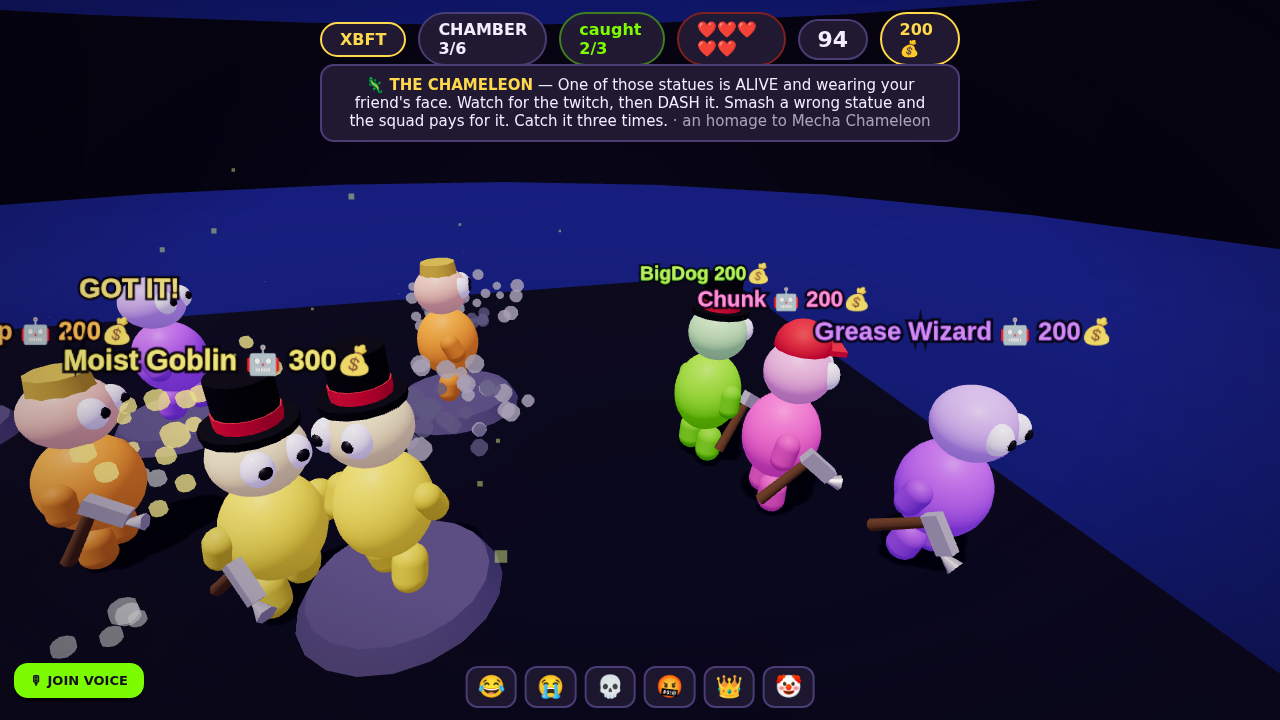
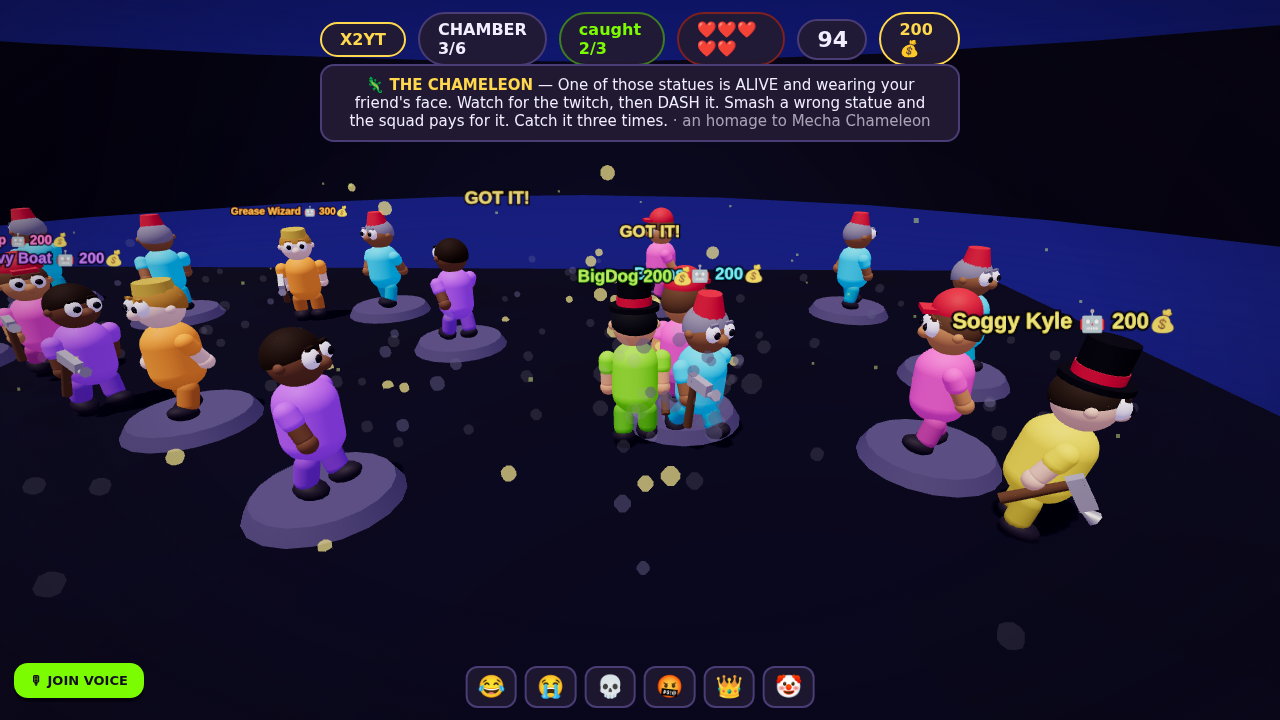
Characters are actual little humans now
Skin-tone heads (6-tone palette per player) with nose, ears, brows,
hair, and eyes; shirt torso with a belly, sleeves ending in hands,
pants ending in shoes; boss is a pale red-eyed dealer. Blocky OSRS
de-make variant untouched. Doc screenshots refreshed.

Claude-Session: https://claude.ai/code/session_014a4Rg1hvhLxLbg1EbcNxR6

diff --git a/client/js/render.js b/client/js/render.js
@@ -56,20 +56,27 @@ function liftFor(id) {
 // ---- shared geometry / materials --------------------------------------------
 
 const GEO = {
-  // chunky toy proportions (Gamble With Friends / R.V. There Yet energy):
-  // fat egg body, big head, stubby little limbs, all smooth-shaded
-  torso: new THREE.SphereGeometry(23, 26, 20).scale(1, 1.18, 0.96),
-  leg: new THREE.CapsuleGeometry(8.5, 8, 6, 14),
-  arm: new THREE.CapsuleGeometry(7, 9, 6, 14),
-  head: new THREE.SphereGeometry(19.5, 26, 20).scale(1, 0.94, 1),
+  // chunky little HUMANS (R.V. There Yet clay-person energy): big head with a
+  // real face, shirt torso, sleeves ending in hands, pants ending in shoes
+  torso: new THREE.CapsuleGeometry(17, 22, 8, 18),
+  sleeve: new THREE.CapsuleGeometry(6.8, 6, 6, 12),
+  forearm: new THREE.CapsuleGeometry(5.6, 9, 6, 12),
+  hand: new THREE.SphereGeometry(6.2, 12, 10),
+  thigh: new THREE.CapsuleGeometry(7.5, 12, 6, 12),
+  shoe: new THREE.SphereGeometry(8.5, 12, 10).scale(1.35, 0.75, 1.05),
+  head: new THREE.SphereGeometry(16.5, 26, 20),
+  nose: new THREE.SphereGeometry(4.6, 12, 10).scale(1.25, 1, 1),
+  ear: new THREE.SphereGeometry(3.6, 10, 8),
+  brow: new THREE.BoxGeometry(2.4, 2.2, 6.5),
+  hair: new THREE.SphereGeometry(17.3, 22, 12, 0, Math.PI * 2, 0, Math.PI * 0.52),
   // the 2004 de-make set
   torsoB: new THREE.BoxGeometry(26, 46, 36),
   legB: new THREE.BoxGeometry(12, 27, 14),
   armB: new THREE.BoxGeometry(10, 27, 12),
   headB: new THREE.BoxGeometry(26, 24, 28),
   eyeB: new THREE.BoxGeometry(3, 6, 6),
-  eyeH: new THREE.SphereGeometry(6.5, 14, 12).scale(1, 1.25, 1),
-  pupilH: new THREE.SphereGeometry(3.2, 10, 8),
+  eyeH: new THREE.SphereGeometry(5.4, 14, 12).scale(1, 1.2, 1),
+  pupilH: new THREE.SphereGeometry(2.8, 10, 8),
   aura: new THREE.SphereGeometry(C.PLAYER_RADIUS + 12, 16, 12),
   link: new THREE.SphereGeometry(7, 8, 6),
   particle: new THREE.SphereGeometry(5, 6, 5),
@@ -94,17 +101,32 @@ function particleMat(color) {
 
 // ---- humanoid slop-people ------------------------------------------------------
 
+// Real skin tones + hair colors, keyed per player so the squad looks like a
+// crew of little dudes instead of a bag of gumballs.
+const SKINS = ['#f2c9a0', '#e8ab72', '#c98e55', '#9a6b42', '#f6d7b8', '#7a5236'];
+const HAIRS = ['#3a2a1e', '#191922', '#6b4a2e', '#8a8a92', '#b8862e', '#2e1c14'];
+const SHOE_MAT = new THREE.MeshStandardMaterial({ color: 0x2a2233, roughness: 0.6 });
+
 const charMatCache = new Map();
-function charMats(color, blocky = false) {
-  const key = color + (blocky ? '#B' : '');
+function charMats(color, skinIndex = 0, blocky = false) {
+  const key = `${color}#${skinIndex}${blocky ? 'B' : ''}`;
   if (!charMatCache.has(key)) {
     const base = new THREE.Color(color);
-    const opts = blocky ? { flatShading: true, roughness: 1 } : {};
-    charMatCache.set(key, {
-      suit: new THREE.MeshStandardMaterial({ color: base, roughness: 0.5, ...opts }),
-      skin: new THREE.MeshStandardMaterial({ color: base.clone().lerp(new THREE.Color('#ffffff'), 0.35), roughness: 0.45, ...opts }),
-      limb: new THREE.MeshStandardMaterial({ color: base.clone().lerp(new THREE.Color('#000000'), 0.25), roughness: 0.55, ...opts }),
-    });
+    if (blocky) {
+      const opts = { flatShading: true, roughness: 1 };
+      charMatCache.set(key, {
+        suit: new THREE.MeshStandardMaterial({ color: base, roughness: 0.5, ...opts }),
+        skin: new THREE.MeshStandardMaterial({ color: base.clone().lerp(new THREE.Color('#ffffff'), 0.35), roughness: 0.45, ...opts }),
+        limb: new THREE.MeshStandardMaterial({ color: base.clone().lerp(new THREE.Color('#000000'), 0.25), roughness: 0.55, ...opts }),
+      });
+    } else {
+      charMatCache.set(key, {
+        shirt: new THREE.MeshStandardMaterial({ color: base, roughness: 0.6 }),
+        pants: new THREE.MeshStandardMaterial({ color: base.clone().lerp(new THREE.Color('#14101f'), 0.45), roughness: 0.65 }),
+        skin: new THREE.MeshStandardMaterial({ color: SKINS[skinIndex % SKINS.length], roughness: 0.55 }),
+        hair: new THREE.MeshStandardMaterial({ color: HAIRS[skinIndex % HAIRS.length], roughness: 0.75 }),
+      });
+    }
   }
   return charMatCache.get(key);
 }
@@ -174,60 +196,117 @@ function makeHat(i) {
   return hat;
 }
 
-// Root sits at ground level; feet reach y≈3. Local +x is forward.
+// Root sits at ground level; feet reach y≈0. Local +x is forward.
 // blocky=true builds the 2004 de-make: box limbs, flat shading, dead eyes.
-function buildCharacter(color, { hatIndex = 0, eyeColor = null, scale = 1, blocky = false } = {}) {
-  const m = charMats(color, blocky);
+function buildCharacter(color, { hatIndex = 0, eyeColor = null, scale = 1, blocky = false, skinIndex = 0 } = {}) {
+  const m = charMats(color, skinIndex, blocky);
   const root = new THREE.Group();
 
+  if (blocky) {
+    const legL = new THREE.Group();
+    const legR = new THREE.Group();
+    for (const [pivot, side] of [[legL, -1], [legR, 1]]) {
+      pivot.position.set(0, 28, side * 9);
+      const leg = new THREE.Mesh(GEO.legB, m.limb);
+      leg.position.y = -14;
+      leg.castShadow = true;
+      pivot.add(leg);
+      root.add(pivot);
+    }
+    const torso = new THREE.Mesh(GEO.torsoB, m.suit);
+    torso.position.y = 51;
+    torso.castShadow = true;
+    root.add(torso);
+    const armL = new THREE.Group();
+    const armR = new THREE.Group();
+    for (const [pivot, side] of [[armL, -1], [armR, 1]]) {
+      pivot.position.set(0, 64, side * 24);
+      const arm = new THREE.Mesh(GEO.armB, m.limb);
+      arm.position.y = -13;
+      arm.castShadow = true;
+      pivot.add(arm);
+      root.add(pivot);
+    }
+    const head = new THREE.Mesh(GEO.headB, m.skin);
+    head.position.y = 89;
+    head.castShadow = true;
+    for (const side of [-1, 1]) {
+      const eye = new THREE.Mesh(GEO.eyeB, eyeColor ? new THREE.MeshBasicMaterial({ color: eyeColor }) : MAT.pupil);
+      eye.position.set(13.5, 2, side * 7);
+      head.add(eye);
+    }
+    const hat = makeHat(hatIndex);
+    hat.position.y = 12;
+    head.add(hat);
+    root.add(head);
+    root.scale.setScalar(scale);
+    return { root, legL, legR, armL, armR, torso, head };
+  }
+
+  // ---- the little human ----
   const legL = new THREE.Group();
   const legR = new THREE.Group();
   for (const [pivot, side] of [[legL, -1], [legR, 1]]) {
-    pivot.position.set(0, blocky ? 28 : 22, side * (blocky ? 9 : 10));
-    const leg = new THREE.Mesh(blocky ? GEO.legB : GEO.leg, m.limb);
-    leg.position.y = blocky ? -14 : -11;
-    leg.castShadow = true;
-    pivot.add(leg);
+    pivot.position.set(0, 30, side * 9.5);
+    const thigh = new THREE.Mesh(GEO.thigh, m.pants);
+    thigh.position.y = -13;
+    thigh.castShadow = true;
+    const shoe = new THREE.Mesh(GEO.shoe, SHOE_MAT);
+    shoe.position.set(3.5, -26, 0);
+    shoe.castShadow = true;
+    pivot.add(thigh, shoe);
     root.add(pivot);
   }
 
-  const torso = new THREE.Mesh(blocky ? GEO.torsoB : GEO.torso, m.suit);
-  torso.position.y = blocky ? 51 : 46;
+  const torso = new THREE.Mesh(GEO.torso, m.shirt);
+  torso.position.y = 50;
+  torso.scale.set(1.14, 1, 1.06); // a respectable belly
   torso.castShadow = true;
   root.add(torso);
 
   const armL = new THREE.Group();
   const armR = new THREE.Group();
   for (const [pivot, side] of [[armL, -1], [armR, 1]]) {
-    pivot.position.set(0, blocky ? 64 : 58, side * (blocky ? 24 : 22));
-    const arm = new THREE.Mesh(blocky ? GEO.armB : GEO.arm, m.limb);
-    arm.position.y = blocky ? -13 : -11;
-    arm.castShadow = true;
-    pivot.add(arm);
+    pivot.position.set(0, 66, side * 20.5);
+    const sleeve = new THREE.Mesh(GEO.sleeve, m.shirt);
+    sleeve.position.y = -5;
+    sleeve.castShadow = true;
+    const forearm = new THREE.Mesh(GEO.forearm, m.skin);
+    forearm.position.y = -15;
+    forearm.castShadow = true;
+    const hand = new THREE.Mesh(GEO.hand, m.skin);
+    hand.position.y = -24;
+    hand.castShadow = true;
+    pivot.add(sleeve, forearm, hand);
     root.add(pivot);
   }
 
-  const head = new THREE.Mesh(blocky ? GEO.headB : GEO.head, m.skin);
-  head.position.y = blocky ? 89 : 88;
+  const head = new THREE.Mesh(GEO.head, m.skin);
+  head.position.y = 90;
   head.castShadow = true;
-  if (blocky) {
-    for (const side of [-1, 1]) {
-      const eye = new THREE.Mesh(GEO.eyeB, eyeColor ? new THREE.MeshBasicMaterial({ color: eyeColor }) : MAT.pupil);
-      eye.position.set(13.5, 2, side * 7);
-      head.add(eye);
-    }
-  } else {
-    for (const side of [-1, 1]) {
-      const eye = new THREE.Mesh(GEO.eyeH, MAT.eyeWhite);
-      eye.position.set(15, 2.5, side * 8);
-      const pupil = new THREE.Mesh(GEO.pupilH, eyeColor ? new THREE.MeshBasicMaterial({ color: eyeColor }) : MAT.pupil);
-      pupil.position.set(4.6, 0.4, 0);
-      eye.add(pupil);
-      head.add(eye);
-    }
+  for (const side of [-1, 1]) {
+    const eye = new THREE.Mesh(GEO.eyeH, MAT.eyeWhite);
+    eye.position.set(13.8, 3.5, side * 6.8);
+    const pupil = new THREE.Mesh(GEO.pupilH, eyeColor ? new THREE.MeshBasicMaterial({ color: eyeColor }) : MAT.pupil);
+    pupil.position.set(4, 0.3, 0);
+    eye.add(pupil);
+    head.add(eye);
+    const brow = new THREE.Mesh(GEO.brow, m.hair);
+    brow.position.set(14.6, 10, side * 6.8);
+    head.add(brow);
+    const ear = new THREE.Mesh(GEO.ear, m.skin);
+    ear.position.set(0, 0.5, side * 16);
+    head.add(ear);
   }
+  const nose = new THREE.Mesh(GEO.nose, m.skin);
+  nose.position.set(16.2, -1.5, 0);
+  head.add(nose);
+  const hair = new THREE.Mesh(GEO.hair, m.hair);
+  hair.position.set(-1.5, 2.5, 0);
+  hair.rotation.z = 0.3; // tip the mop back so the face stays clear
+  head.add(hair);
   const hat = makeHat(hatIndex);
-  hat.position.y = blocky ? 12 : 15;
+  hat.position.y = 14;
   head.add(hat);
   root.add(head);
 
@@ -1008,7 +1087,7 @@ function buildBjTable(group) {
   rim.position.set(C.HUB.TABLE.x, 46, C.HUB.TABLE.y);
   group.add(rim);
 
-  const bossChar = buildCharacter('#241d35', { hatIndex: 1, eyeColor: 0xff3030, scale: 1.45 });
+  const bossChar = buildCharacter('#241d35', { hatIndex: 1, eyeColor: 0xff3030, scale: 1.45, skinIndex: 4 });
   const boss = bossChar.root;
   const bowtie = new THREE.Mesh(new THREE.BoxGeometry(4, 6, 14), HAT_RED);
   bowtie.position.set(21, 62, 0);
@@ -1523,7 +1602,7 @@ function updateCham(dt, ex, S) {
     let st = arena.statues.get(id);
     if (!st) {
       const info = S.meta?.players.find(p => p.id === mimic);
-      const char = buildCharacter(info?.color || '#888888', { hatIndex: mimic % 5 });
+      const char = buildCharacter(info?.color || '#888888', { hatIndex: mimic % 5, skinIndex: mimic % 6 });
       const base = new THREE.Mesh(new THREE.CylinderGeometry(44, 50, 10, 20), MAT.statueBase);
       base.position.set(x, 5, y);
       char.root.position.set(x, 10, y);
@@ -1746,7 +1825,7 @@ function makeBlobView(b) {
   const yaw = new THREE.Group();
   group.add(yaw);
 
-  const char = buildCharacter(b.color, { hatIndex: b.id % 5 });
+  const char = buildCharacter(b.color, { hatIndex: b.id % 5, skinIndex: b.id % 6 });
   yaw.add(char.root);
 
   const aura = new THREE.Mesh(GEO.aura, new THREE.MeshBasicMaterial({
@@ -1782,7 +1861,7 @@ export function emoteBody(id, e) {
 }
 
 function spawnCorpse(b) {
-  const char = buildCharacter(b.color, { hatIndex: b.id % 5 });
+  const char = buildCharacter(b.color, { hatIndex: b.id % 5, skinIndex: b.id % 6 });
   const group = char.root;
   const w = toWorld(b.rx ?? b.x, b.rz ?? b.y, liftFor(b.id) + 10);
   group.position.copy(w);
@@ -1804,7 +1883,7 @@ function updateBlobViews(dt) {
     if (v.blocky !== wantBlocky) {
       v.blocky = wantBlocky;
       v.yaw.remove(v.char.root);
-      v.char = buildCharacter(b.color, { hatIndex: b.id % 5, blocky: wantBlocky });
+      v.char = buildCharacter(b.color, { hatIndex: b.id % 5, blocky: wantBlocky, skinIndex: b.id % 6 });
       v.yaw.add(v.char.root);
       v.axeMesh = null;
       v.axeShown = -2;
